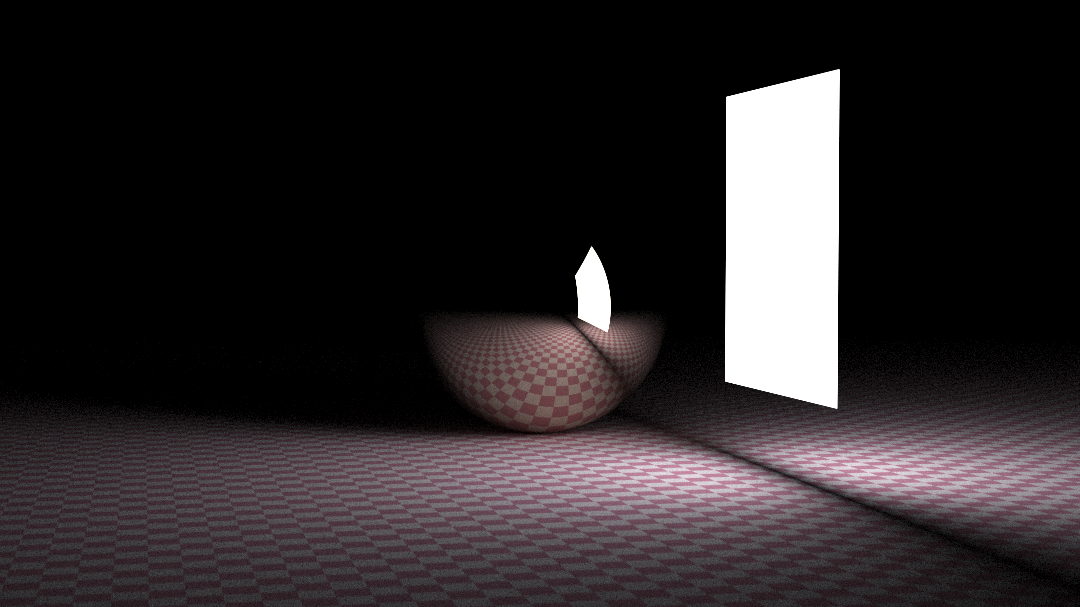
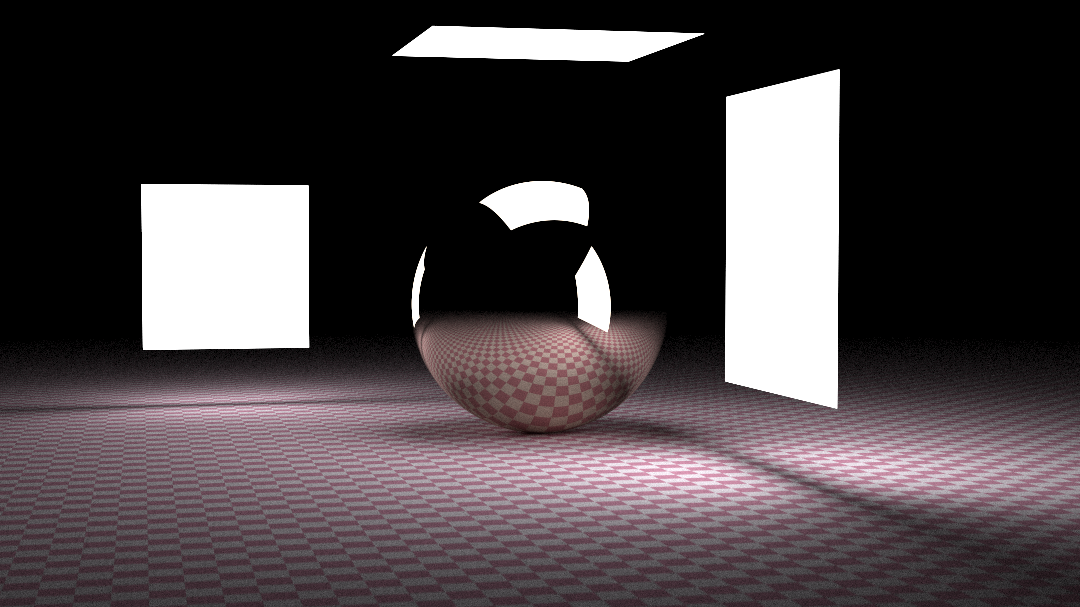
rect: add more axis-aligned rects

Changed region(s): [[0.0, 0.2965, 1.0, 1.0], [0.3667, 0.0297, 0.6417, 0.1186], [0.4278, 0.2965, 0.55, 0.3855]]

diff --git a/src/object/rect.rs b/src/object/rect.rs
@@ -6,70 +6,78 @@ use crate::{
 
 use super::{Aabb, BbObject, Object};
 
-pub struct Rect<M: Material> {
-    a0: f64,
-    b0: f64,
-    a1: f64,
-    b1: f64,
-    c: f64,
-    material: M,
-}
-
-impl<M: Material> Rect<M> {
-    pub fn new(a0: f64, b0: f64, a1: f64, b1: f64, c: f64, material: M) -> Self {
-        Self {
-            a0,
-            b0,
-            a1,
-            b1,
-            c,
-            material,
+macro_rules! define_rect {
+    ($Name:ident, $x:ident, $y:ident, $z:ident) => {
+        pub struct $Name<M: Material> {
+            a0: f64,
+            b0: f64,
+            a1: f64,
+            b1: f64,
+            c: f64,
+            material: M,
         }
-    }
-}
 
-impl<M: Material> Object for Rect<M> {
-    fn hit(&self, ray: &Ray, t_min: f64, t_max: f64) -> Option<HitRecord> {
-        let t = (self.c - ray.origin.z) / ray.dir.z;
-        if t < t_min || t > t_max {
-            return None;
+        impl<M: Material> $Name<M> {
+            pub fn new(a0: f64, b0: f64, a1: f64, b1: f64, c: f64, material: M) -> Self {
+                Self {
+                    a0,
+                    b0,
+                    a1,
+                    b1,
+                    c,
+                    material,
+                }
+            }
         }
-        let a = ray.origin.x + ray.dir.x * t;
-        let b = ray.origin.y + ray.dir.y * t;
-        if a >= self.a0 && a <= self.a1 && b >= self.b0 && b <= self.b1 {
-            let mut outward_normal = Coord::zeros();
-            outward_normal.z = 1.0;
-            let front = HitRecord::is_front(ray, outward_normal);
 
-            let u = (a - self.a0) / (self.a1 - self.a0);
-            let v = (b - self.b0) / (self.b1 - self.b0);
+        impl<M: Material> Object for $Name<M> {
+            fn hit(&self, ray: &Ray, t_min: f64, t_max: f64) -> Option<HitRecord> {
+                let t = (self.c - ray.origin.$z) / ray.dir.$z;
+                if t < t_min || t > t_max {
+                    return None;
+                }
+                let a = ray.origin.$x + ray.dir.$x * t;
+                let b = ray.origin.$y + ray.dir.$y * t;
+                if a >= self.a0 && a <= self.a1 && b >= self.b0 && b <= self.b1 {
+                    let mut outward_normal = Coord::zeros();
+                    outward_normal.$z = 1.0;
+                    let front = HitRecord::is_front(ray, outward_normal);
 
-            Some(HitRecord::new(
-                ray.at(t),
-                outward_normal,
-                t,
-                front,
-                &self.material,
-                (u, v),
-            ))
-        } else {
-            None
+                    let u = (a - self.a0) / (self.a1 - self.a0);
+                    let v = (b - self.b0) / (self.b1 - self.b0);
+
+                    Some(HitRecord::new(
+                        ray.at(t),
+                        outward_normal,
+                        t,
+                        front,
+                        &self.material,
+                        (u, v),
+                    ))
+                } else {
+                    None
+                }
+            }
         }
-    }
+
+        impl<M: Material> BbObject for $Name<M> {
+            fn bounding_box(&self) -> Aabb {
+                let mut min = Coord::zeros();
+                min.$x = self.a0;
+                min.$y = self.b0;
+                min.$z = self.c - 1e-3;
+
+                let mut max = Coord::zeros();
+                max.$x = self.a1;
+                max.$y = self.b1;
+                max.$z = self.c + 1e-3;
+
+                Aabb::new(min, max)
+            }
+        }
+    };
 }
 
-impl<M: Material> BbObject for Rect<M> {
-    fn bounding_box(&self) -> Aabb {
-        let mut min = Coord::zeros();
-        min.x = self.a0;
-        min.y = self.b0;
-        min.z = self.c - 1e-3;
-
-        let mut max = Coord::zeros();
-        max.x = self.a1;
-        max.y = self.b1;
-        max.z = self.c + 1e-3;
-
-        Aabb::new(min, max)
-    }
-}
+define_rect!(RectXY, x, y, z);
+define_rect!(RectXZ, x, z, y);
+define_rect!(RectYZ, y, z, x);

diff --git a/src/scene/examples/next_week.rs b/src/scene/examples/next_week.rs
@@ -1,6 +1,6 @@
 use crate::{
     material::{Diffuse, DiffuseMethod, Light, Metal},
-    object::{BbObject, Rect, Sphere},
+    object::{BbObject, RectXY, RectXZ, RectYZ, Sphere},
     scene::{camera::Camera, session::RenderSession, Scene},
     texture::{Checker, PngTexture, Solid},
     vec3::{Coord, RelColor},
@@ -77,9 +77,21 @@ pub fn rect_light() -> BvhSession {
     let sphere = Sphere::new(Coord::new(0., 2., 0.), 2., metal);
     list.push(Box::new(sphere));
 
-    let pink_light = Light::new(Solid::new(4., 4., 4.));
-    let rect = Rect::new(3., 1., 7., 5., -2., pink_light);
-    list.push(Box::new(rect));
+    {
+        let bright_light = Light::new(Solid::new(4., 4., 4.));
+        let rect = RectXY::new(3., 1., 7., 5., -2., bright_light);
+        list.push(Box::new(rect));
+    }
+    {
+        let bright_light = Light::new(Solid::new(4., 4., 4.));
+        let rect = RectXZ::new(-2., -2., 2., 2., 6., bright_light);
+        list.push(Box::new(rect));
+    }
+    {
+        let bright_light = Light::new(Solid::new(4., 4., 4.));
+        let rect = RectYZ::new(1., 3., 4., 6., -6., bright_light);
+        list.push(Box::new(rect));
+    }
 
     return RenderSession::new(
         1080,

diff --git a/src/object/mod.rs b/src/object/mod.rs
@@ -3,8 +3,8 @@ mod rect;
 mod sphere;
 
 pub use aabb::Aabb;
+pub use rect::{RectXY, RectXZ, RectYZ};
 pub use sphere::Sphere;
-pub use rect::*;
 
 use crate::ray::{HitRecord, Ray};
 
